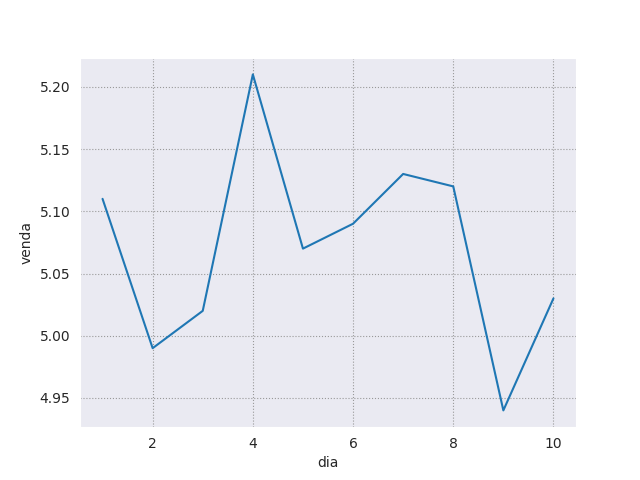
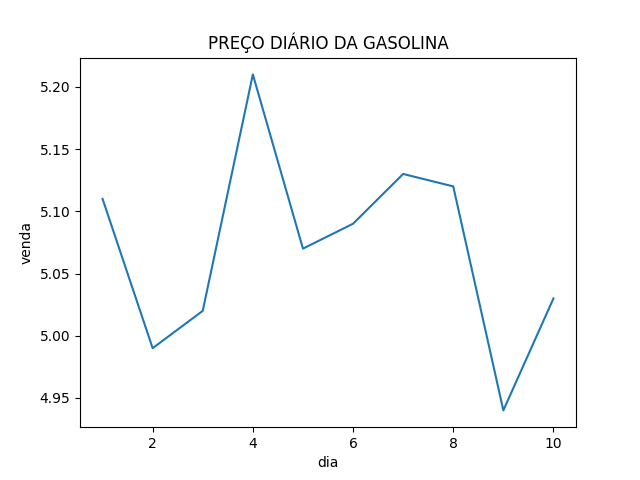
Foram feitos alterações no arquivo de imagem

diff --git a/gasolina.py b/gasolina.py
@@ -1,2 +1,5 @@
+# código de geração do gráfico 
+
 grafico_linha = sns.lineplot(data=df,x='dia', y='venda')
+plt.title('PREÇO DIÁRIO DA GASOLINA')
 plt.show(grafico_linha)
